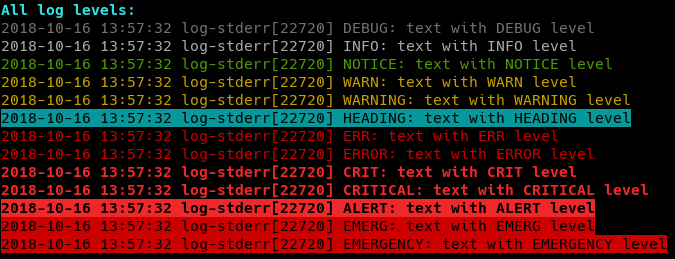
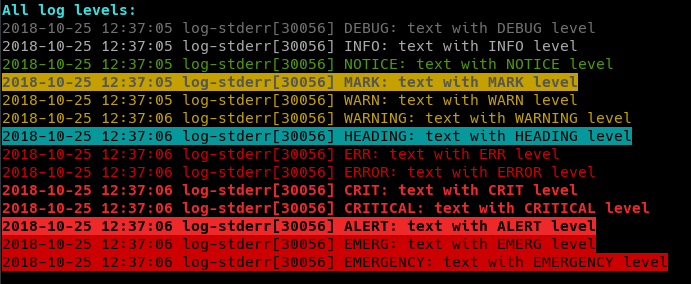
Add new log level MARK

diff --git a/doc/log.md b/doc/log.md
@@ -106,6 +106,7 @@ Eight logging levels are supported, combining the levels from the Python logging
 | DEBUG              | 10            | 7                     | Python and RFC 5424 |
 | INFO               | 20            | 6                     | Python and RFC 5424 |
 | NOTICE             | 25            | 5                     | RFC 5424 specific   |
+| MARK               | 25            | 5                     | own extension       |
 | WARN or WARNING    | 30            | 4                     | Python and RFC 5424 |
 | HEADING            | 35            | 4                     | own extension       |
 | ERR or ERROR       | 40            | 3                     | Python and RFC 5424 |
@@ -115,6 +116,8 @@ Eight logging levels are supported, combining the levels from the Python logging
 
 Setting the `LOG_LEVEL` in the script will log subsequent log messages at that value or higher only.
 The `LOG_LEVEL` may be changed anytime within the script.
+
+> While the most log levels are from the error levels, we also added `MARK` and `HEADING` as report levels which don't have an real error case. This allows to also use the log library to send informational higher prioritized output.
 
 ## File rotation
 

diff --git a/doc/colors.md b/doc/colors.md
@@ -2,7 +2,7 @@
 
 Setup color variables to be used in bash scripts for formatting.
 
-![example](lcolors.png)
+![example](colors.png)
 
 ## Usage
 
